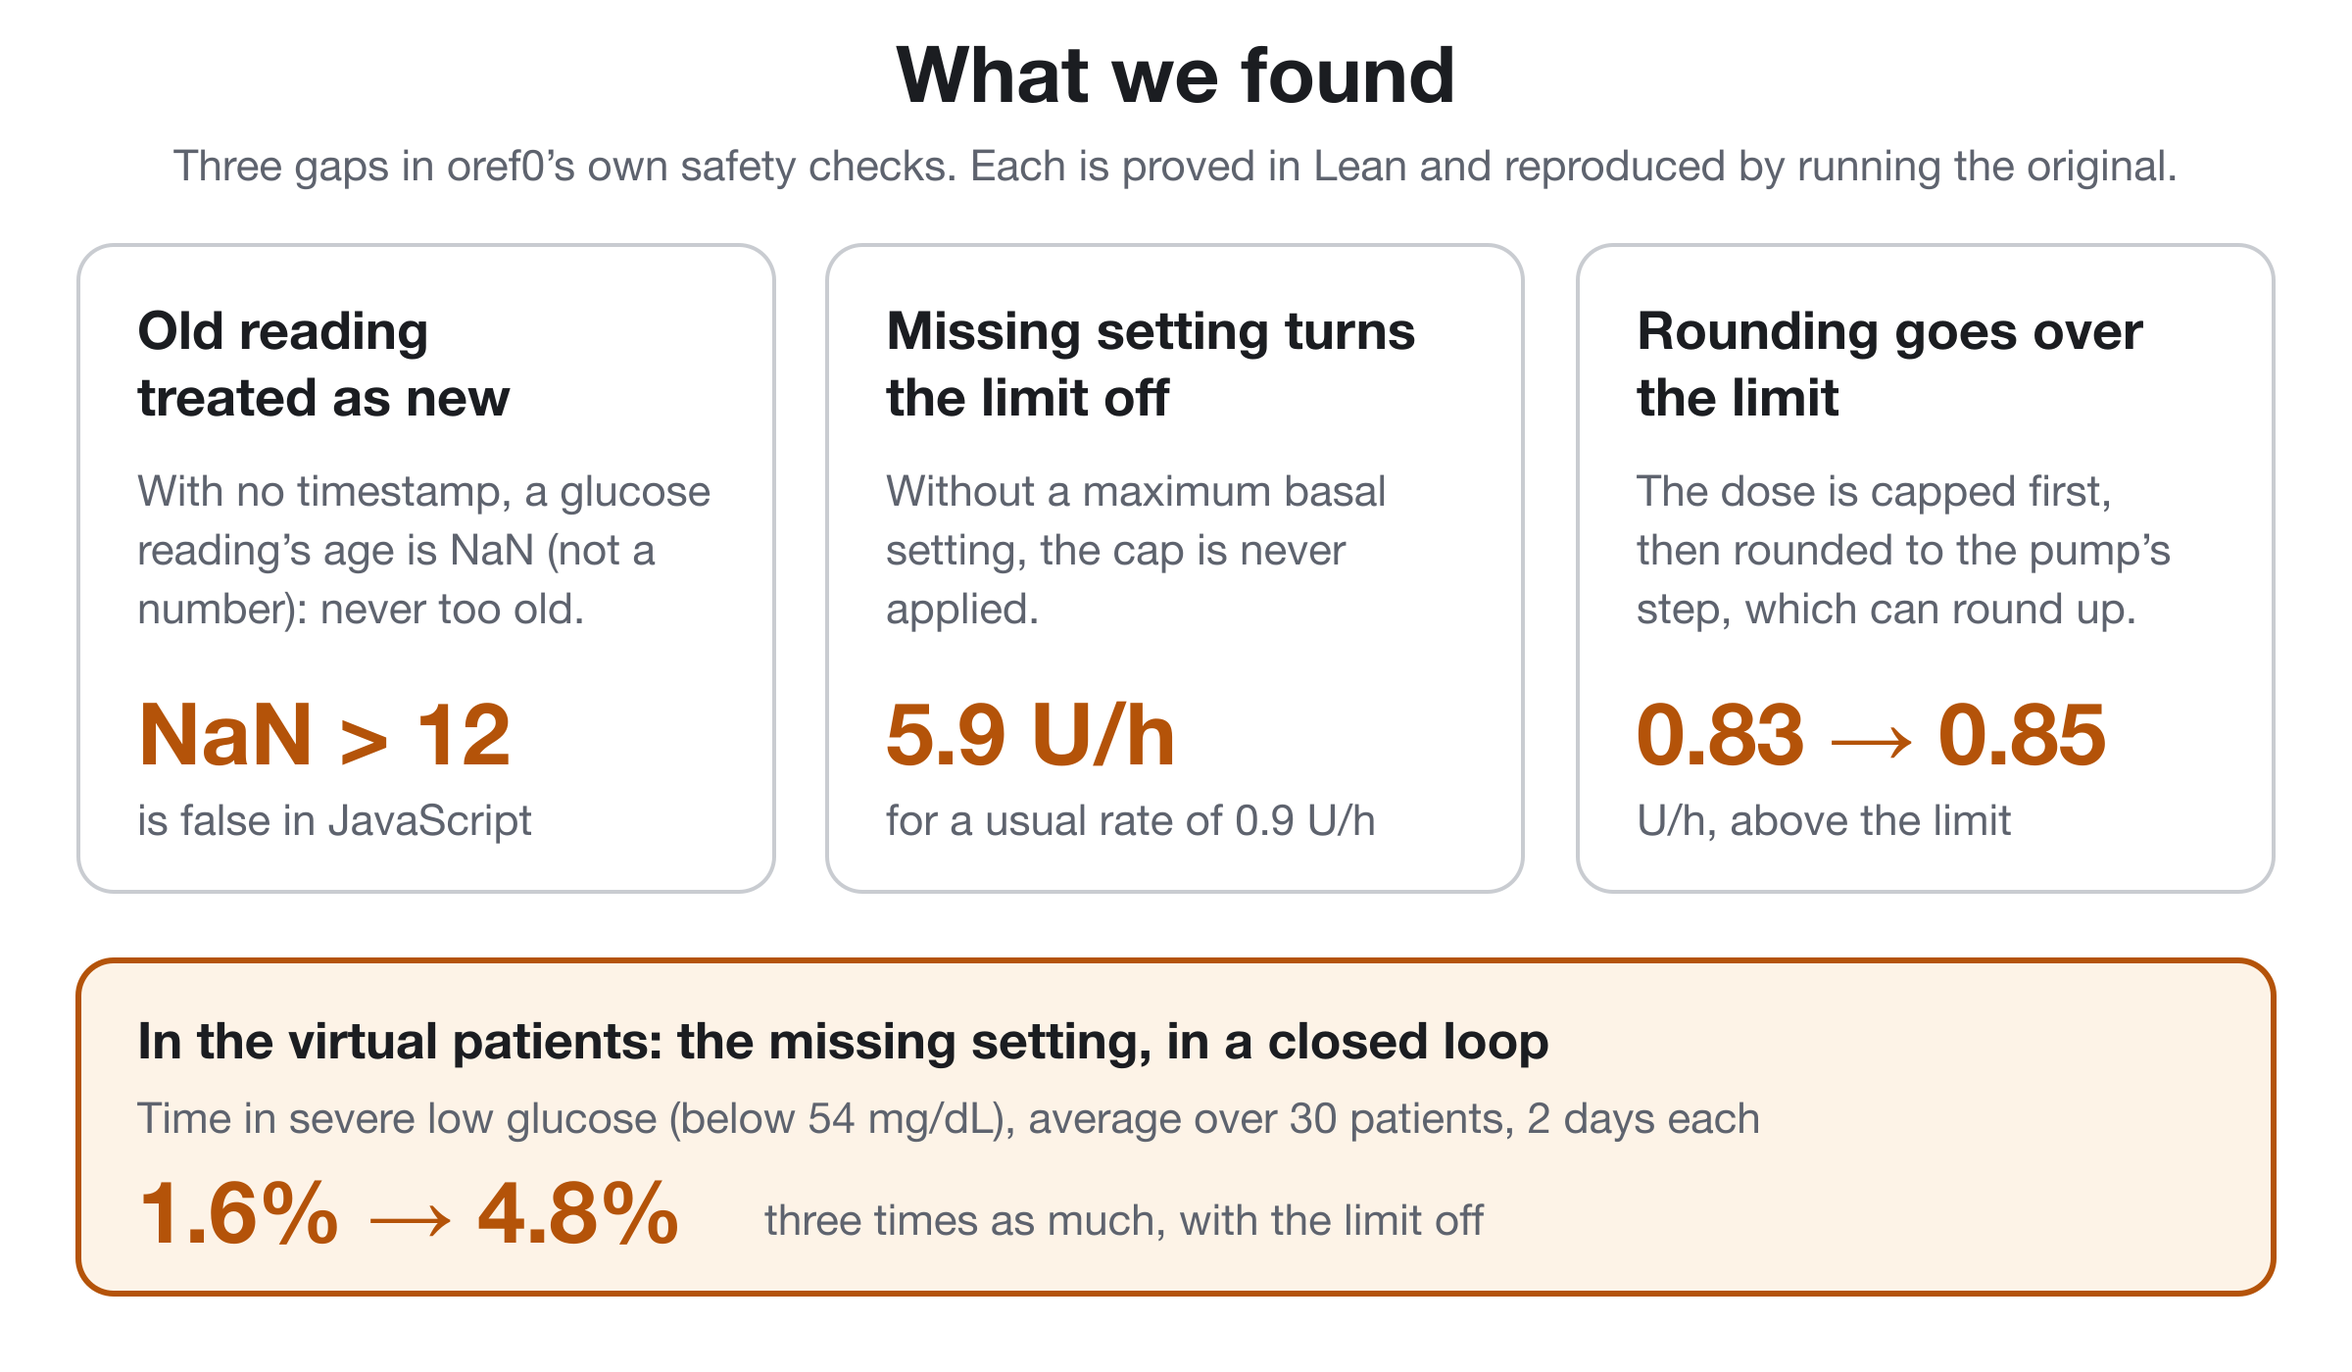
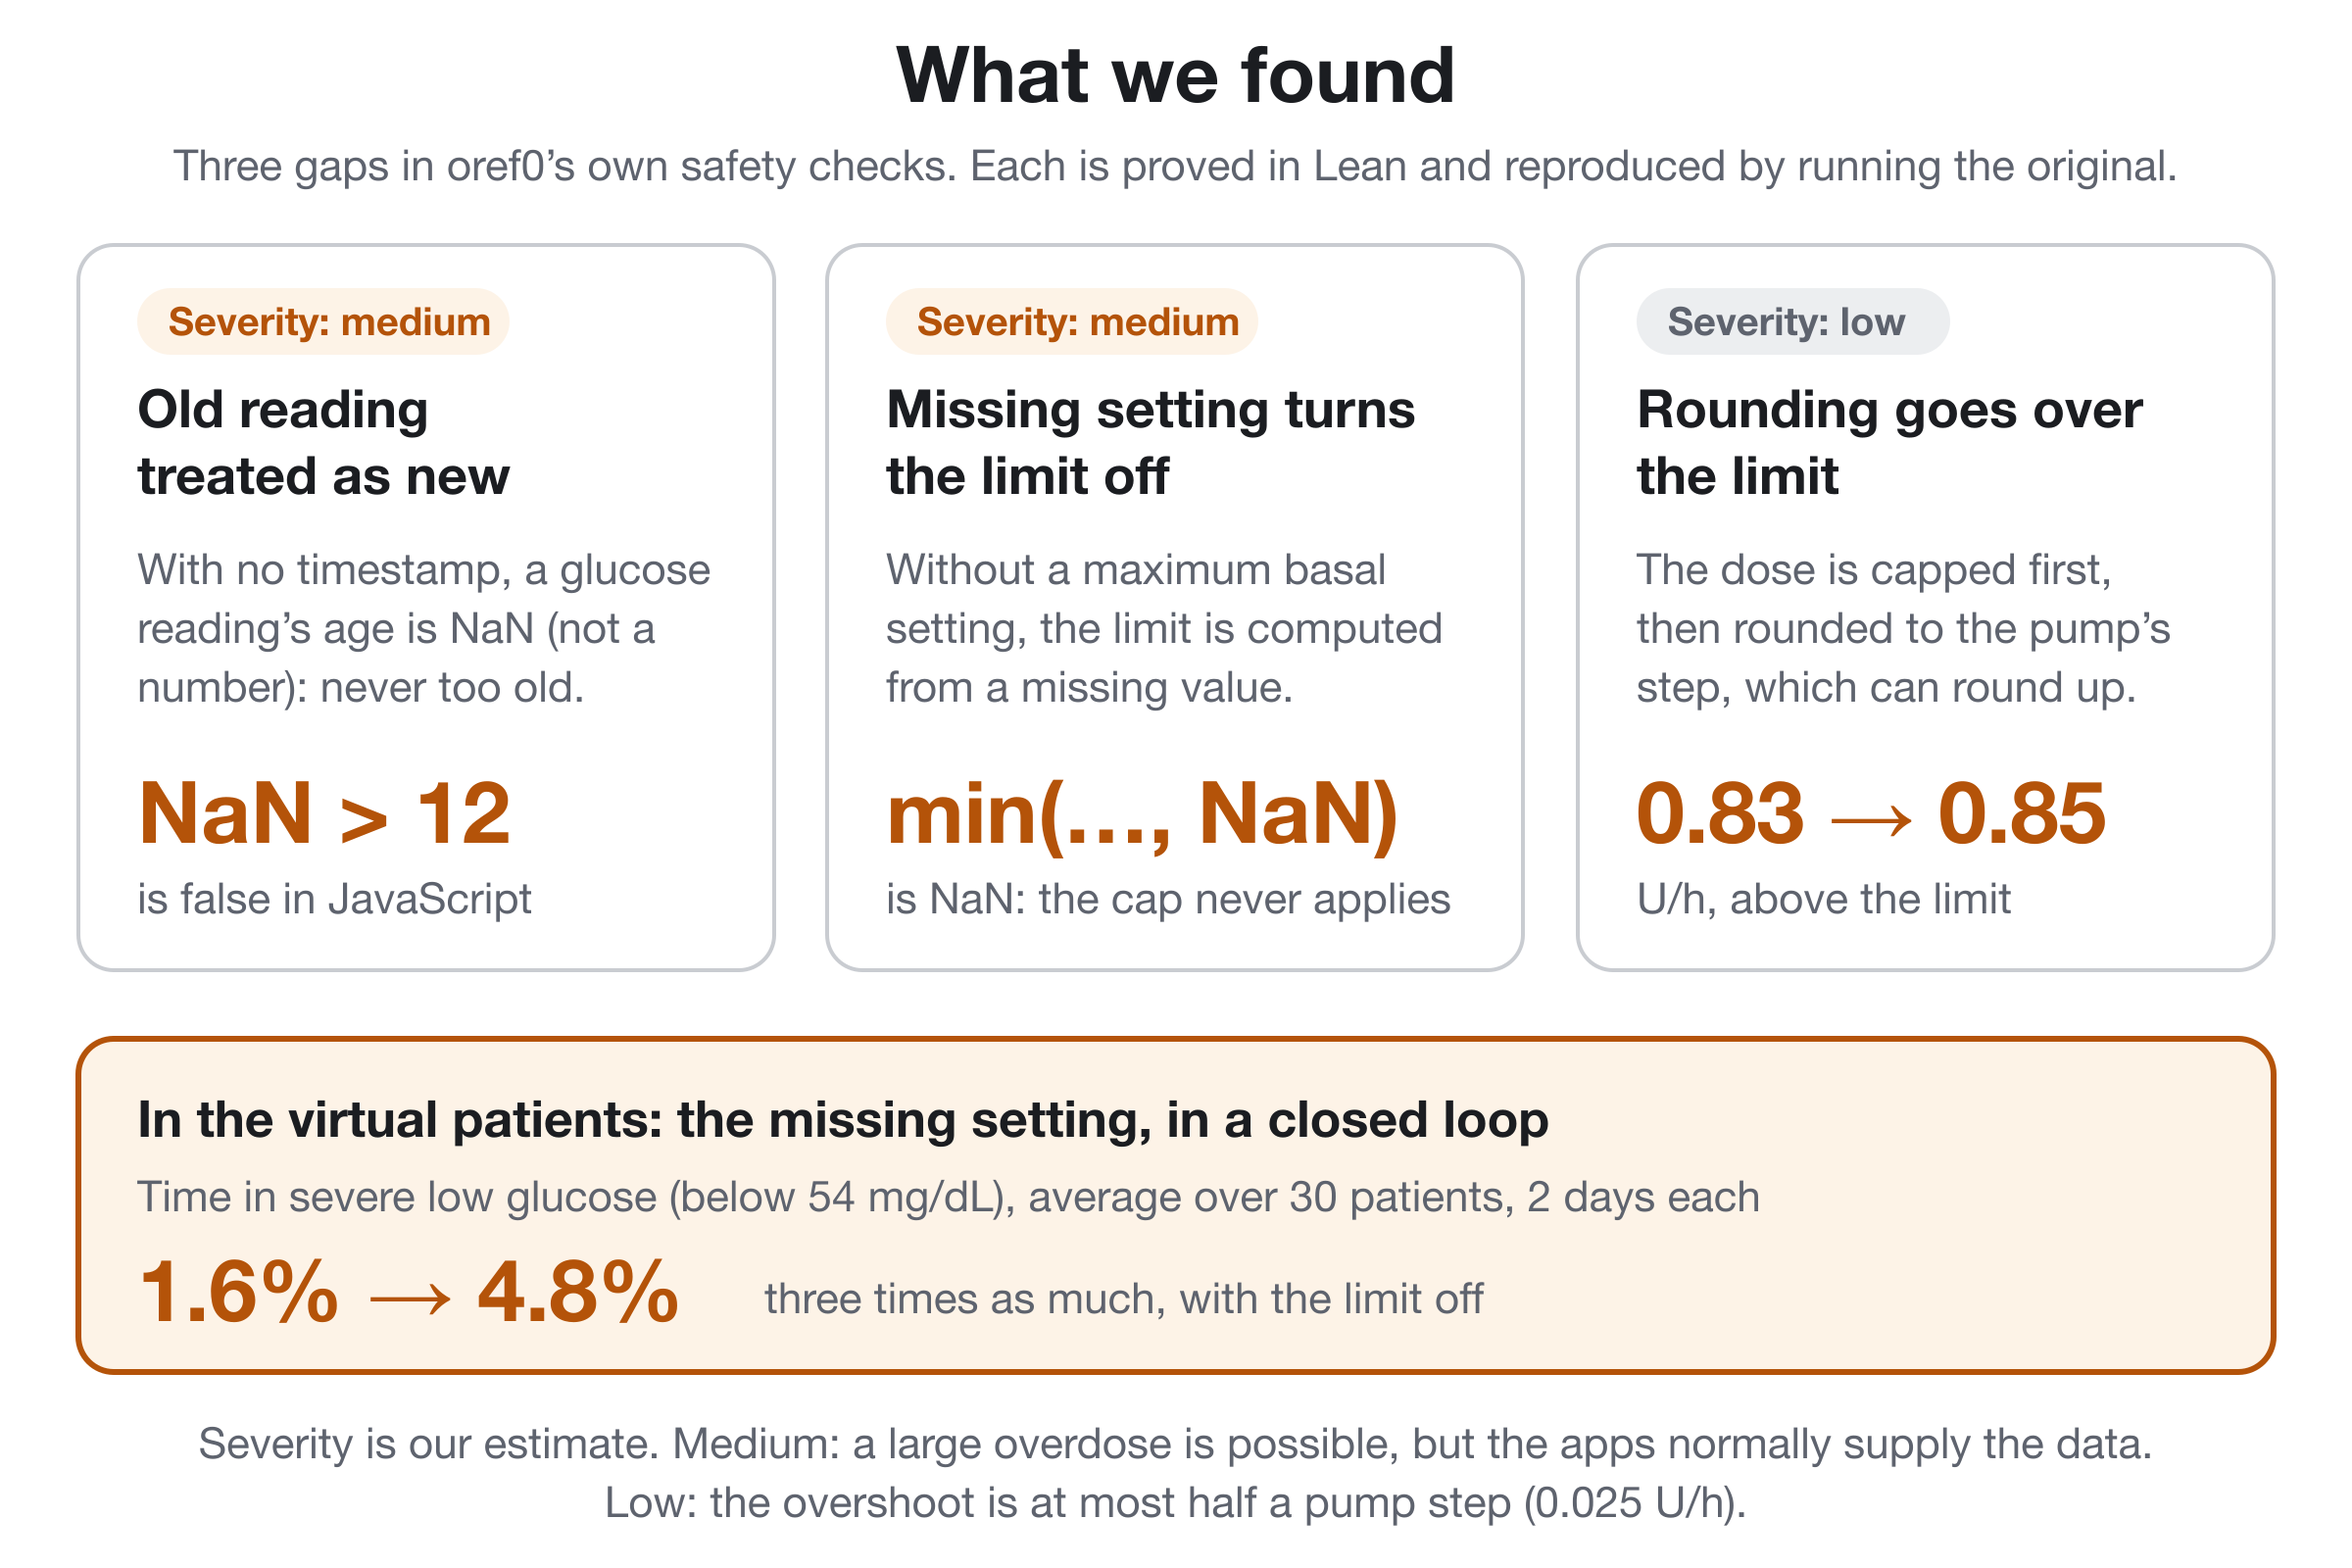
Findings diagram: NaN cause on the missing-setting card; severity marks (medium, medium, low) with a note

diff --git a/site/index.html b/site/index.html
@@ -232,7 +232,7 @@ footer li { margin: 3px 0; }
   <div class="wrap">
     <h2>What we found</h2>
     <p class="sub">Problems in oref0 0.7.1 that its own tests did not catch. Each one is reproduced by running the original.</p>
-    <img class="diagram fig" src="img/found.svg" width="1200" height="700" alt="Three gaps: a reading with no timestamp counts as fresh (3.5 U/h, the maximum rate); a missing maximum basal setting switches the limit off (5.9 U/h for a usual 0.9 U/h); rounding goes over the limit (0.83 U/h becomes 0.85 U/h). In the virtual patients, the missing setting tripled time in severe low glucose, from 1.6% to 4.8%.">
+    <img class="diagram fig" src="img/found.svg" width="1200" height="800" alt="Three gaps: a reading with no timestamp counts as fresh (3.5 U/h, the maximum rate); a missing maximum basal setting switches the limit off (5.9 U/h for a usual 0.9 U/h); rounding goes over the limit (0.83 U/h becomes 0.85 U/h). In the virtual patients, the missing setting tripled time in severe low glucose, from 1.6% to 4.8%.">
     <div class="props three">
       <div class="prop"><h3>A reading with no timestamp counts as fresh</h3><p>The program never treats it as old. For a reading of 250 mg/dL and rising, it gives its maximum rate, 3.5 U/h, however old the reading is.</p></div>
       <div class="prop"><h3>A missing setting switches the limit off</h3><p>If the maximum basal setting is missing, the safety limit is never applied: 5.9 U/h for a usual rate of 0.9 U/h.</p></div>
